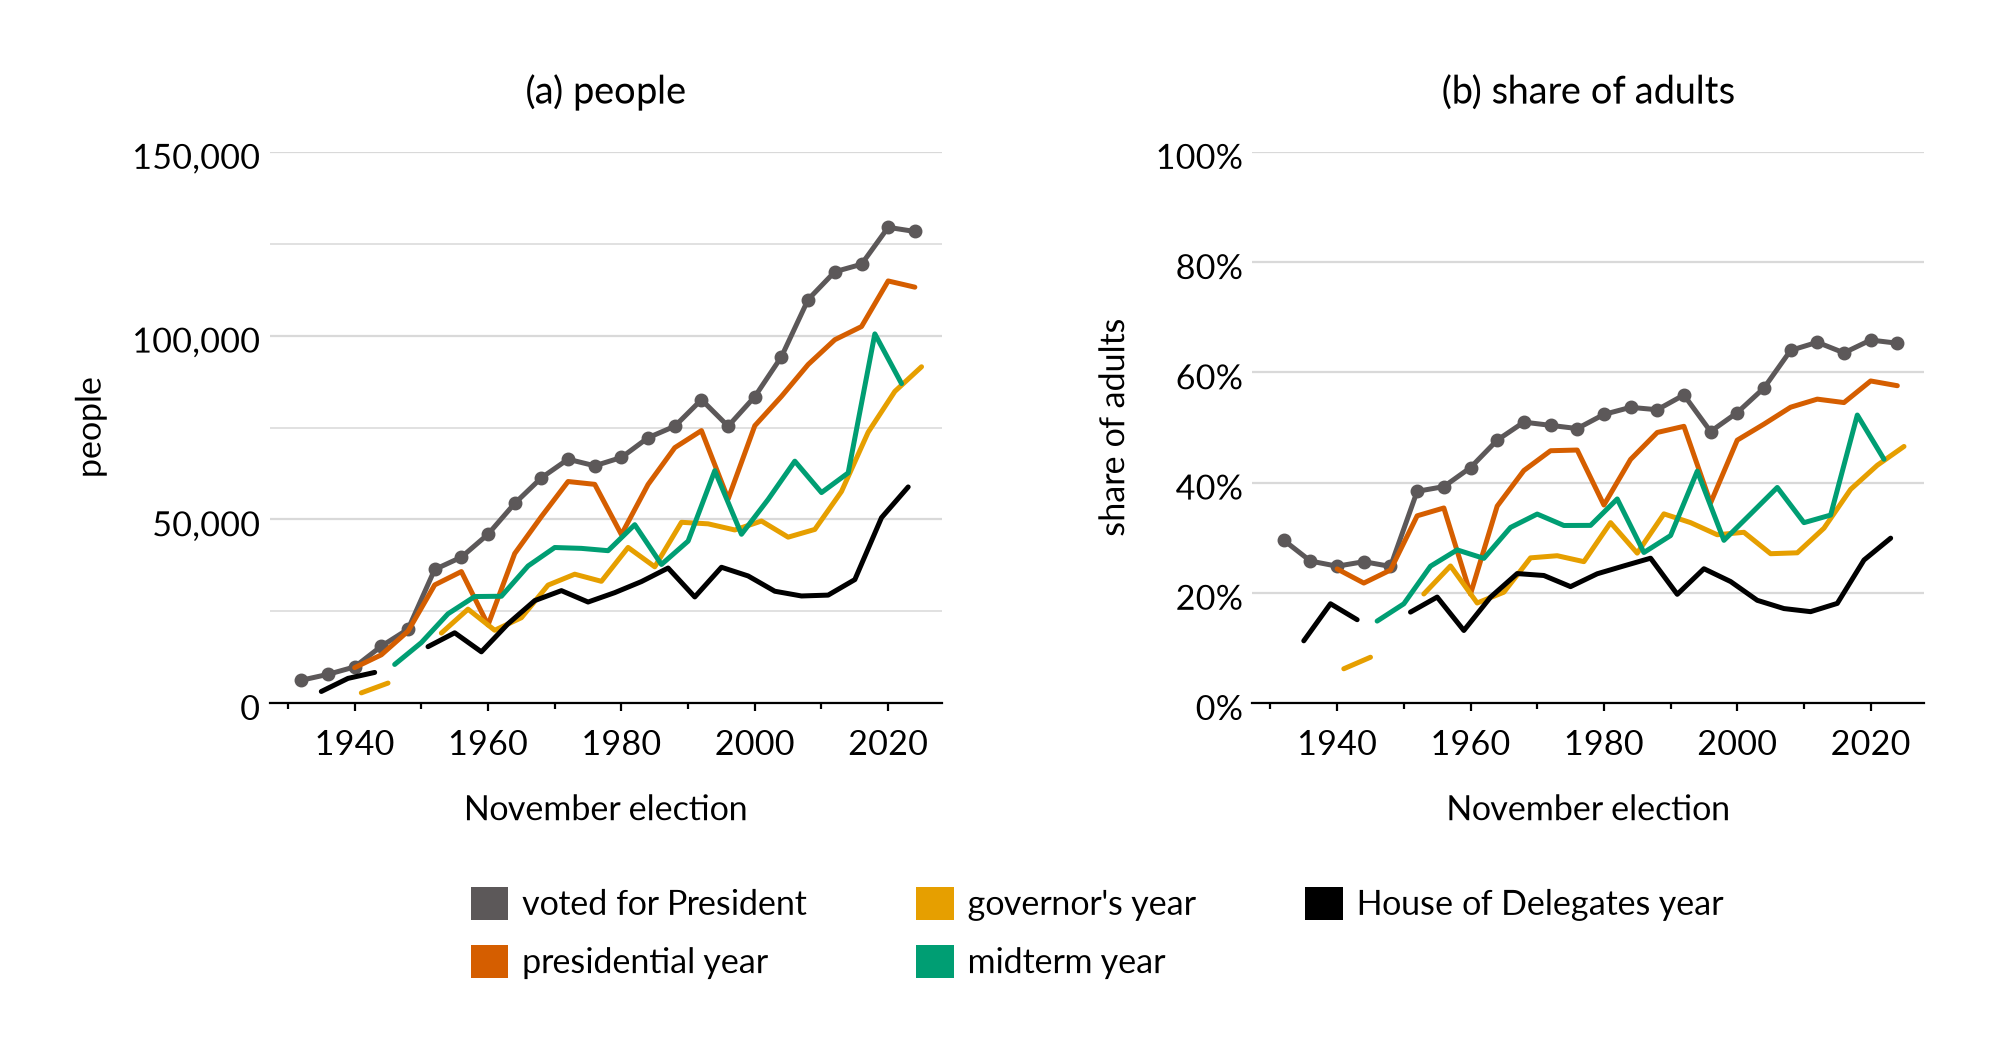
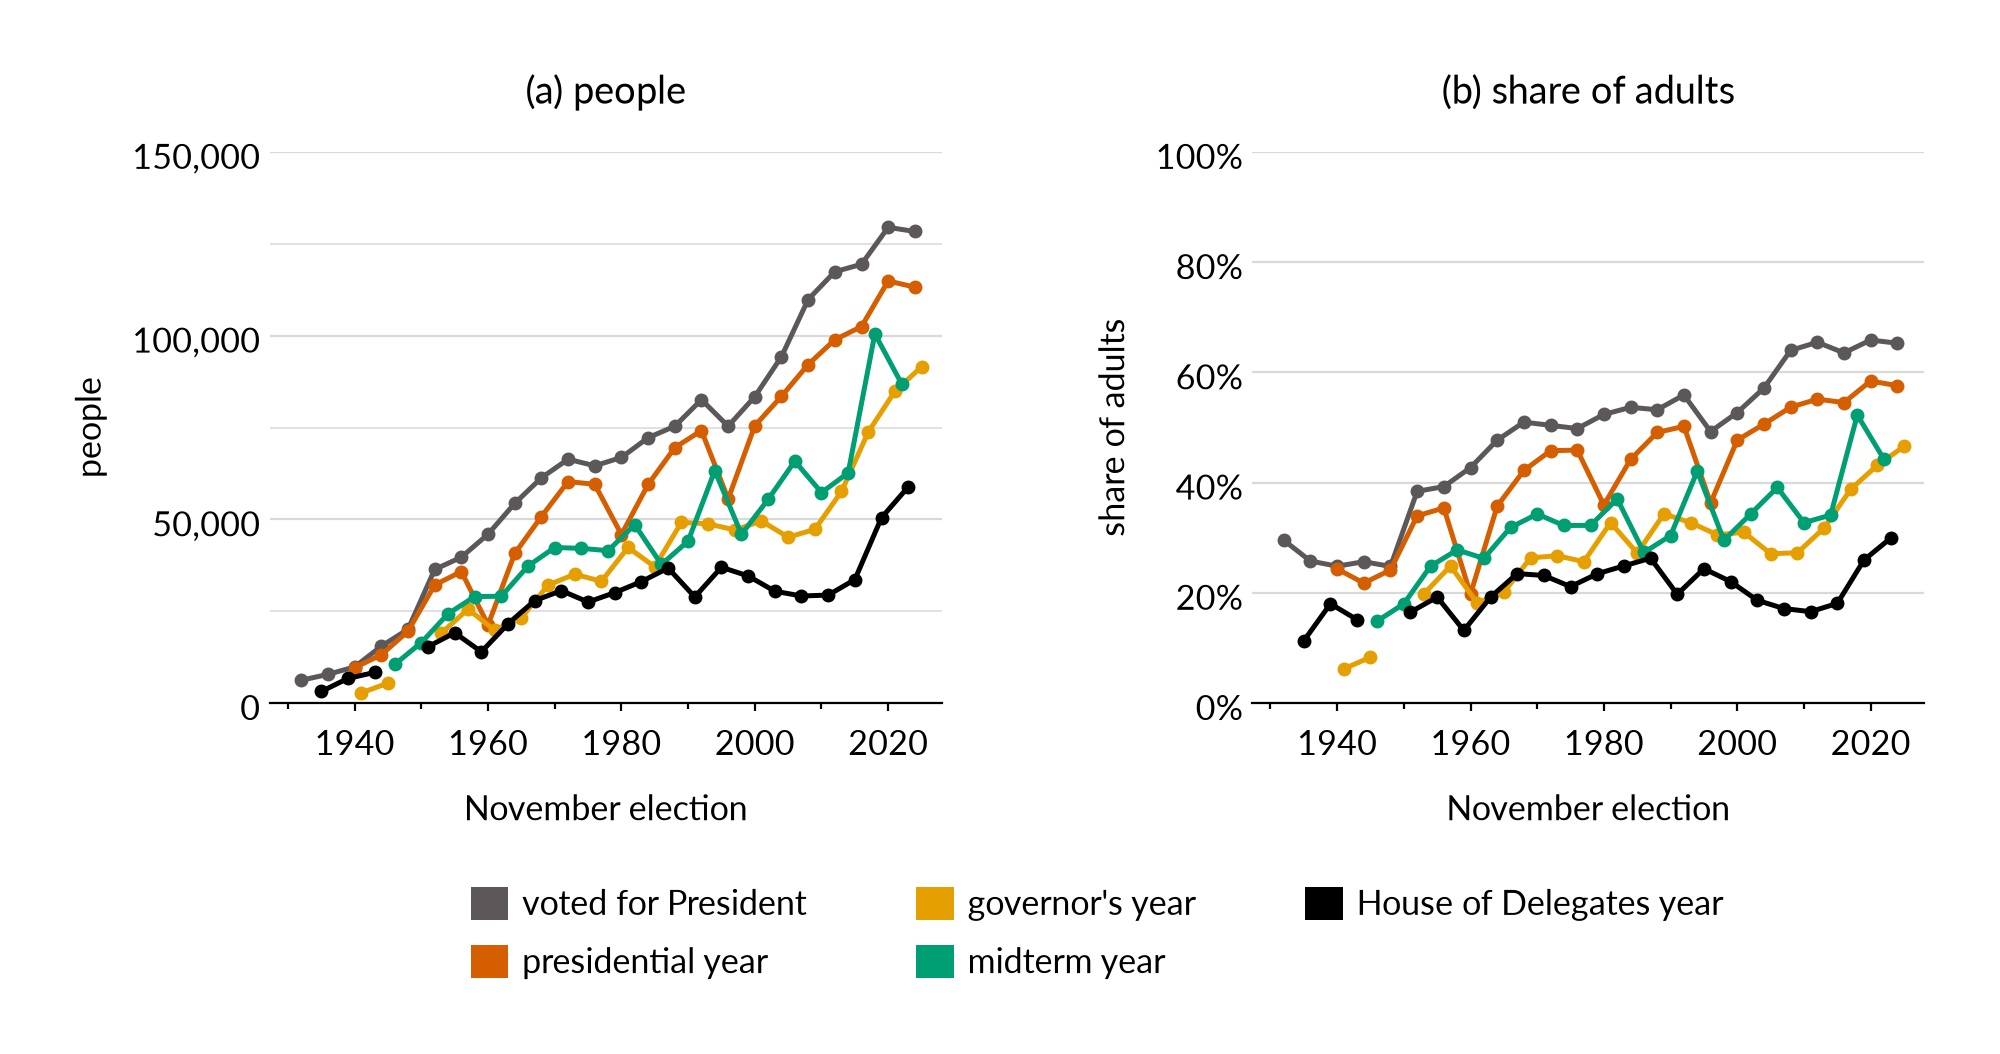
elections_turnout: dots on every board-cycle year, matching the president line
Four unmarked lines beside one marked line hid that they don't all plot
the same years; a marker per point makes the cycle visible.

diff --git a/code/analysis/elections_turnout.py b/code/analysis/elections_turnout.py
@@ -32,7 +32,7 @@ for profile in style.PROFILES:
         charts.lines(ax, president.year, {label: (president[col], colour)})
         for cycle, (label, colour) in style.CYCLE.items():
             part = board[board.cycle == cycle]
-            charts.lines(ax, part.year, {label: (part[col], colour)}, marker=False)
+            charts.lines(ax, part.year, {label: (part[col], colour)})
 
     charts.counts(a, 150000, 50000, label="people", minor=25000)
     a.set_title("(a) people")
